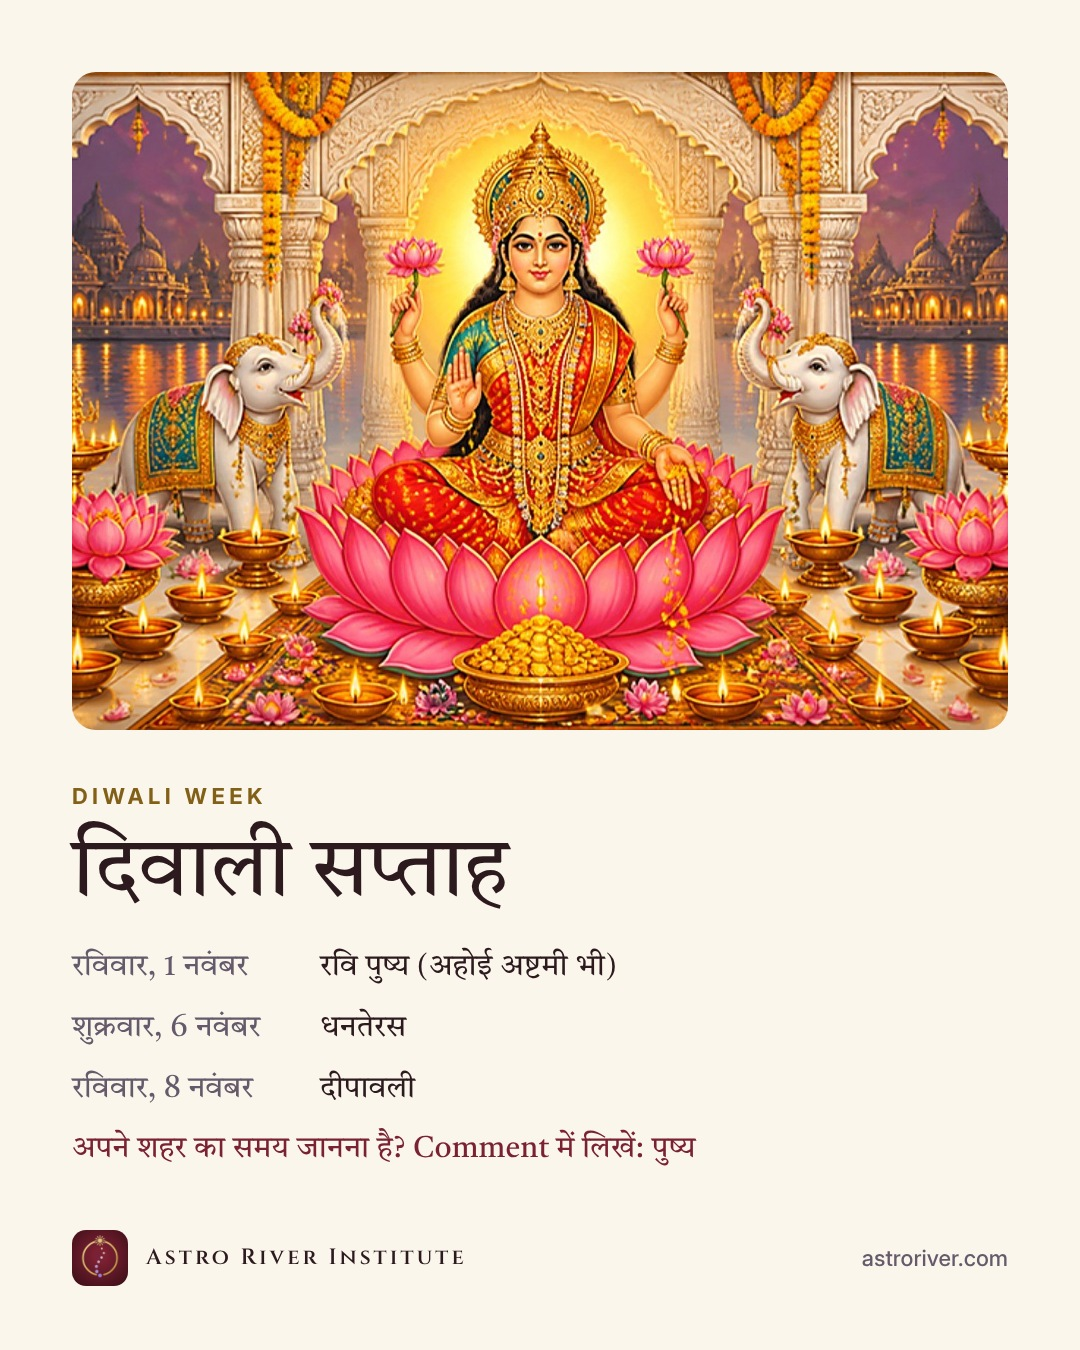
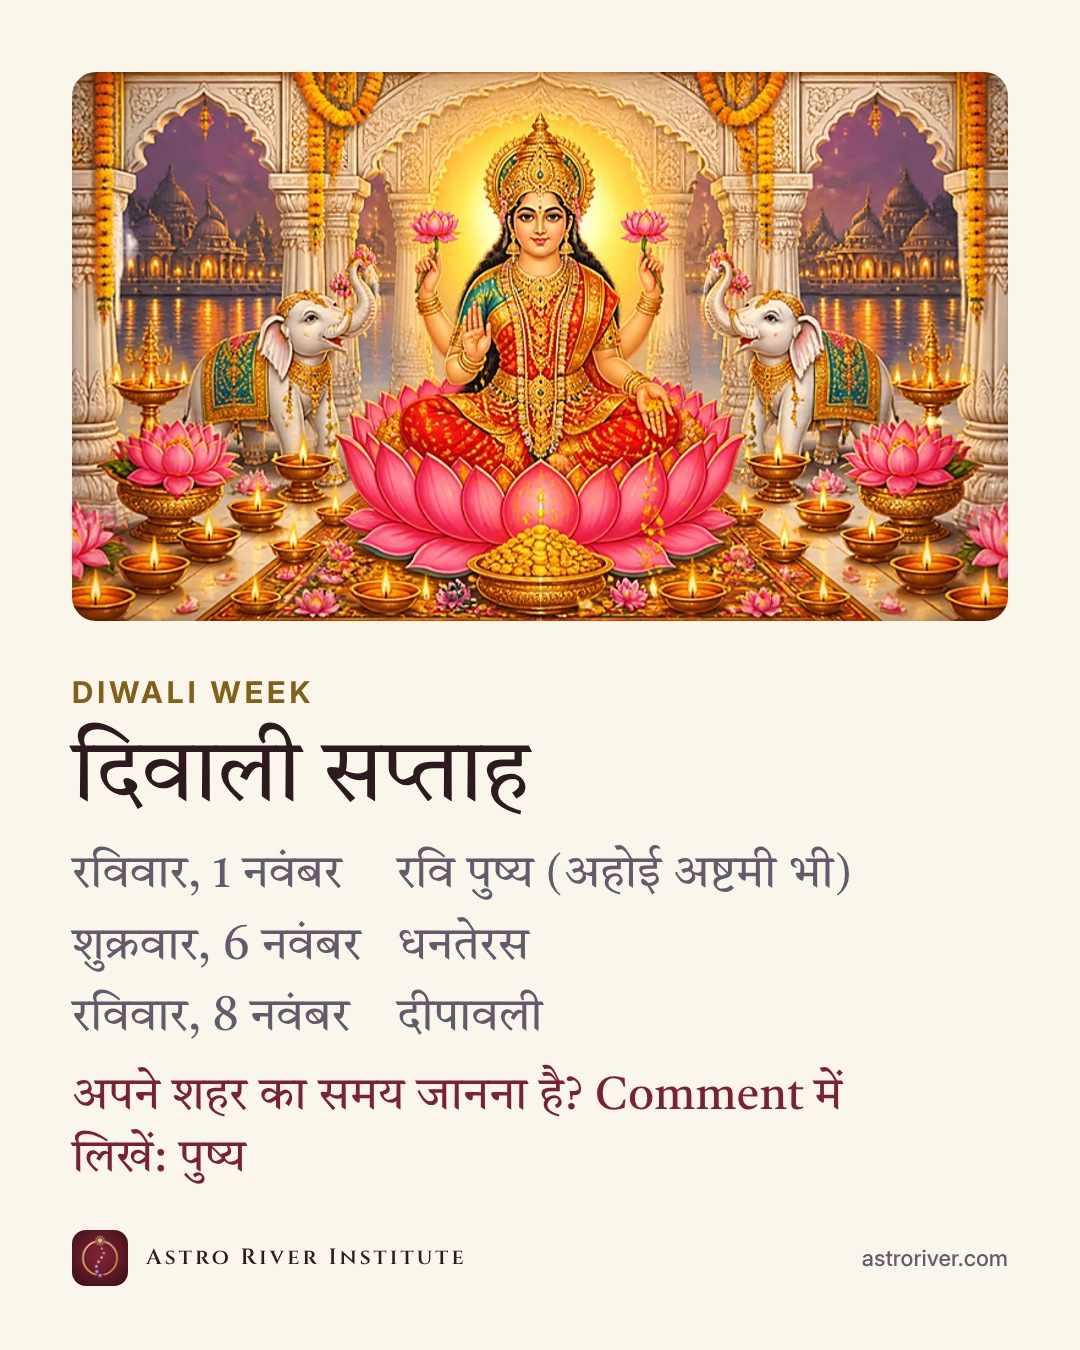
Template v2 images approved: Karwa, Jupiter, Lakshmi, Ravi Pushya (text at least 40px, no empty band)

diff --git a/build/templates/make.js b/build/templates/make.js
@@ -34,6 +34,12 @@ const files = process.argv.length > 2 ? process.argv.slice(2).map(f => path.reso
           const px = parseFloat(getComputedStyle(e).fontSize), min = e.classList.contains('over') ? 30 : 40;
           if (px < min) out.push(`text under ${min} px (${px}): "${e.textContent.trim().slice(0, 30)}"`);
         }
+        // a single word alone on the last line of a headline, body or deadline
+        for (const e of document.querySelectorAll('h1, .body, .deadline')) {
+          const ws = []; const w = document.createTreeWalker(e, NodeFilter.SHOW_TEXT);
+          for (let n; (n = w.nextNode());) for (const m of n.textContent.matchAll(/[^\s\u00a0]+/g)) { const r = document.createRange(); r.setStart(n, m.index); r.setEnd(n, m.index + m[0].length); const b = r.getClientRects(); if (b.length) ws.push({ w: m[0], y: Math.round(b[b.length - 1].top / 12) }); }
+          if (ws.length > 2 && ws[ws.length - 1].y !== ws[ws.length - 2].y) out.push(`one word alone on the last line: "${ws[ws.length - 1].w}"`);
+        }
         if (fmt === 'story') for (const e of document.querySelectorAll('.txt *, .sig')) { const r = e.getBoundingClientRect(); if (!r.width && !r.height) continue; if (r.top < 250 || r.bottom > h - 250 + 1) out.push('outside the story safe zone: ' + (e.className || e.tagName) + ' top ' + Math.round(r.top) + ' bottom ' + Math.round(r.bottom)); }
         return out;
       }, { fmt, h });
